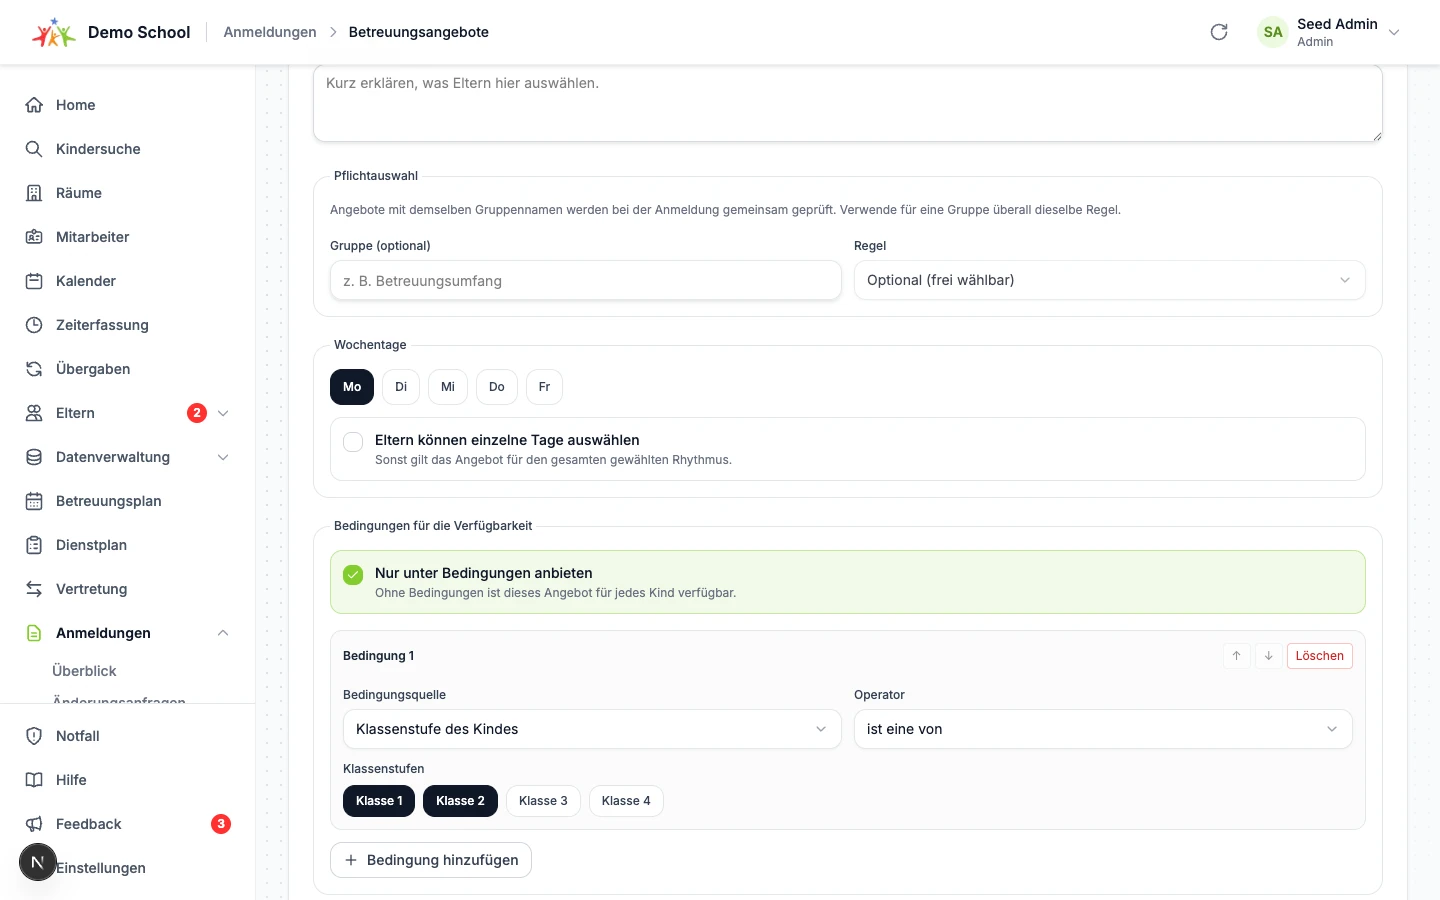
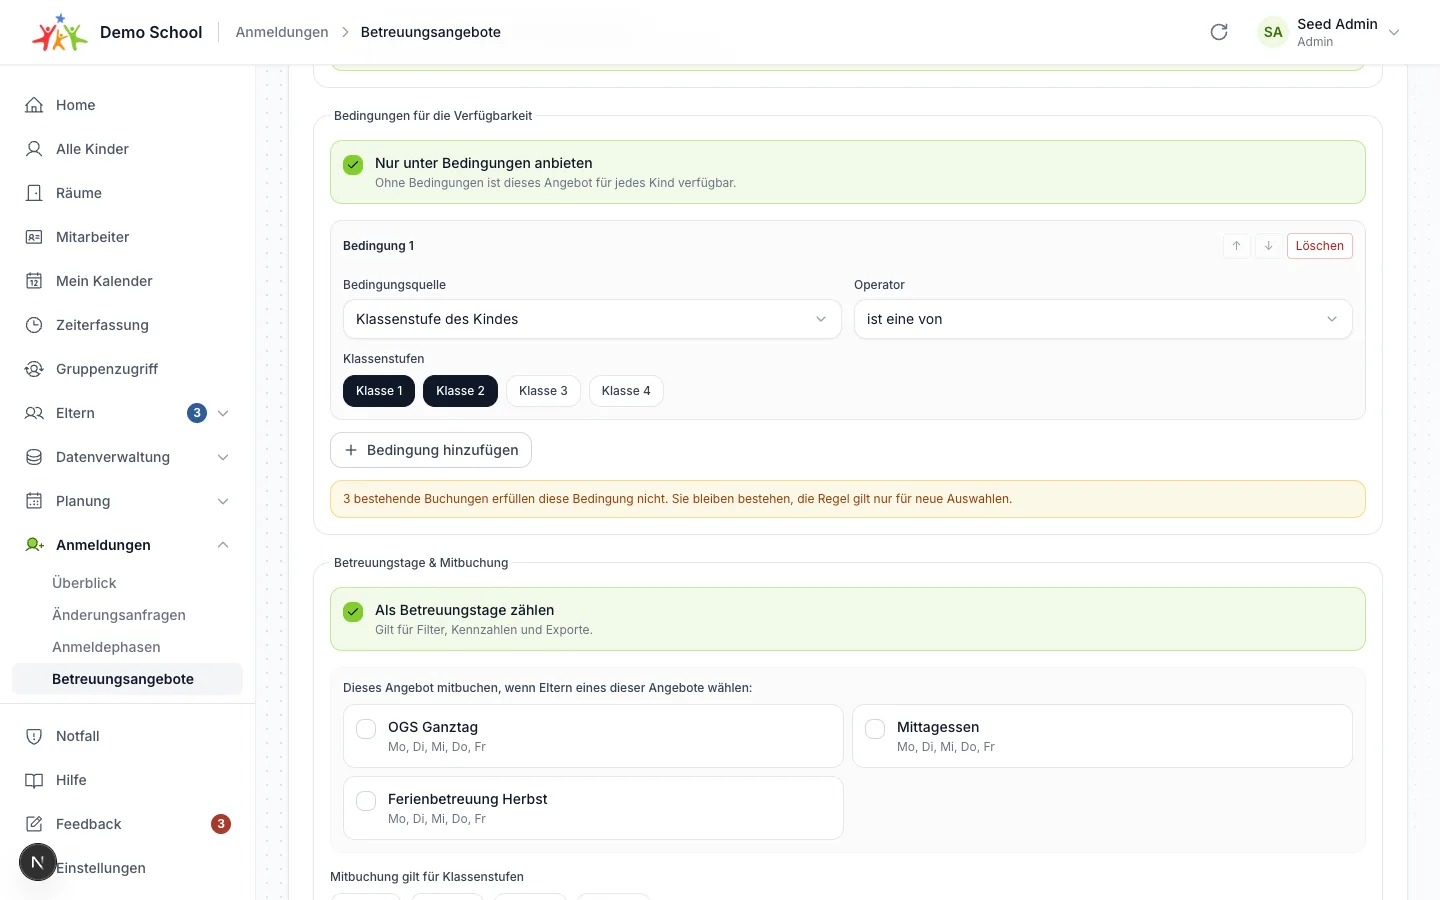
fix(enrollment): klarere Texte und aktueller Hilfe-Screenshot für Verfügbarkeitsregeln
Drei Nachbesserungen zu #2221 (Issue #2186):

- Konflikt-Hinweis im Regel-Editor ohne Gedankenstrich, gleiche Formulierung
  wie im Hilfe-Guide; im Singular-Fall jetzt grammatisch korrekt
  ("1 Buchung ... Sie bleibt bestehen").
- Checkbox an gesperrt-aber-gebuchten Angeboten benennt den Zustand
  ("bleibt gebucht") statt der Gegenaktion ("entfernen"); Verhalten
  unveraendert, nur der Accessible Name.
- Hilfe-Screenshot betreuungsangebote.webp neu aufgenommen, zeigt jetzt den
  im Guide beschriebenen Konflikt-Hinweis unter den Bedingungen.

diff --git a/frontend/src/components/enrollment/admin-enrollment-detail.test.tsx b/frontend/src/components/enrollment/admin-enrollment-detail.test.tsx
@@ -872,7 +872,7 @@ describe("ChildOfferingAdjustment", () => {
 
     fireEvent.click(screen.getByRole("button", { name: "Bearbeiten" }));
     const checkbox = await screen.findByRole("checkbox", {
-      name: "Randstunde entfernen",
+      name: "Randstunde bleibt gebucht",
     });
     expect(checkbox).toBeChecked();
     fireEvent.click(checkbox);
@@ -962,7 +962,7 @@ describe("ChildOfferingAdjustment", () => {
 
     fireEvent.click(screen.getByRole("button", { name: "Bearbeiten" }));
     const checkbox = await screen.findByRole("checkbox", {
-      name: "Randstunde entfernen",
+      name: "Randstunde bleibt gebucht",
     });
     // The label must be wired to the input, or a mouse user cannot toggle it.
     const label = checkbox.closest("label");
@@ -1020,7 +1020,7 @@ describe("ChildOfferingAdjustment", () => {
 
     fireEvent.click(screen.getByRole("button", { name: "Bearbeiten" }));
     const checkbox = await screen.findByRole("checkbox", {
-      name: "Randstunde entfernen",
+      name: "Randstunde bleibt gebucht",
     });
     expect(checkbox).toBeChecked();
     // Derived days disappear with their trigger, never by unticking here.
@@ -1043,7 +1043,7 @@ describe("ChildOfferingAdjustment", () => {
 
     fireEvent.click(screen.getByRole("button", { name: "Bearbeiten" }));
     const checkbox = await screen.findByRole("checkbox", {
-      name: "Randstunde entfernen",
+      name: "Randstunde bleibt gebucht",
     });
     expect(checkbox).not.toBeChecked();
     expect(checkbox).toBeDisabled();

diff --git a/frontend/src/components/enrollment/care-offerings-editor.tsx b/frontend/src/components/enrollment/care-offerings-editor.tsx
@@ -2112,7 +2112,8 @@ function CareOfferingAvailabilityFields({
               {conflicts === 1
                 ? "1 bestehende Buchung erfüllt diese Bedingung nicht."
                 : `${conflicts} bestehende Buchungen erfüllen diese Bedingung nicht.`}{" "}
-              Sie bleiben bestehen — die Regel gilt nur für neue Auswahlen.
+              Sie {conflicts === 1 ? "bleibt" : "bleiben"} bestehen, die Regel
+              gilt nur für neue Auswahlen.
             </p>
           ) : null}
         </div>

diff --git a/frontend/src/components/enrollment/admin-enrollment-detail.tsx b/frontend/src/components/enrollment/admin-enrollment-detail.tsx
@@ -1190,7 +1190,7 @@ function BlockedOfferingRow({
           checked={booked || heldAutomatically}
           disabled={!booked}
           onChange={onRemove}
-          aria-label={`${offering.name} entfernen`}
+          aria-label={`${offering.name} bleibt gebucht`}
         />
         <div className="min-w-0 flex-1">
           <div className="flex flex-wrap items-center gap-2">
